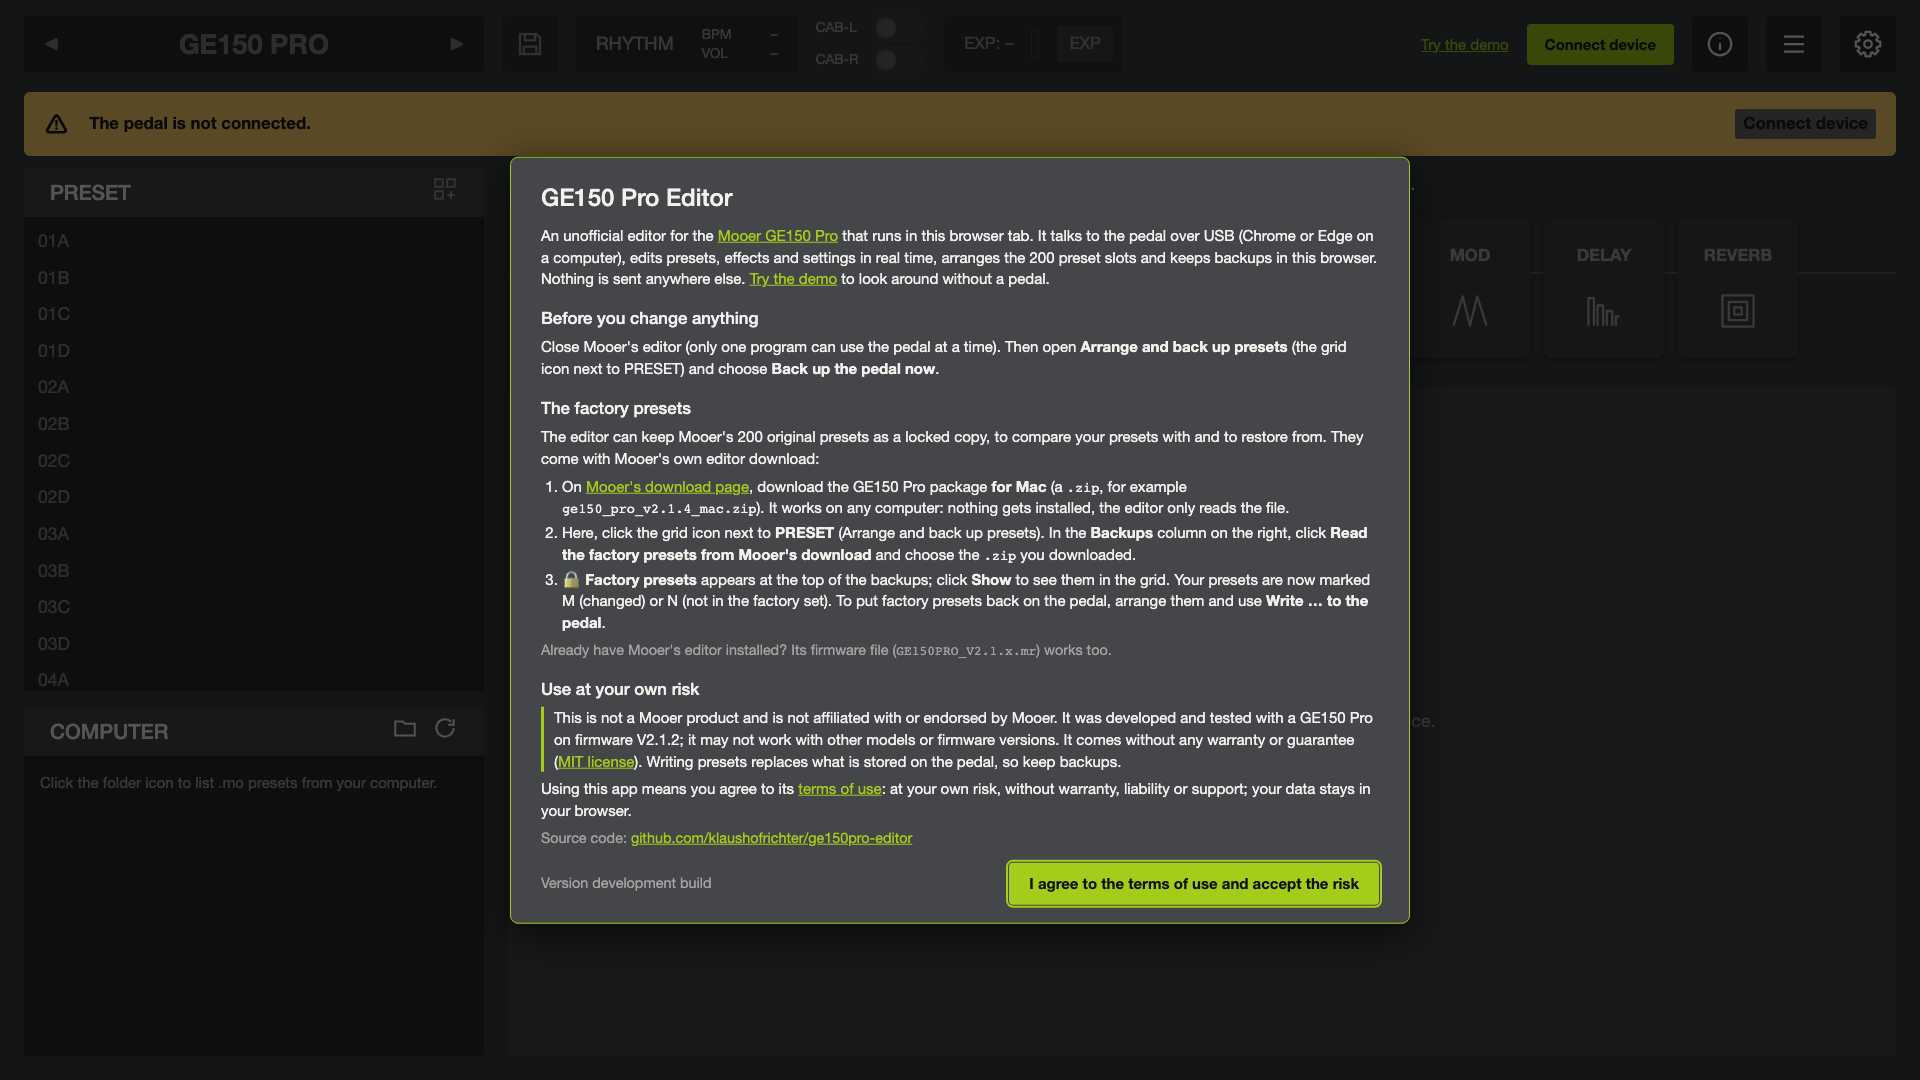
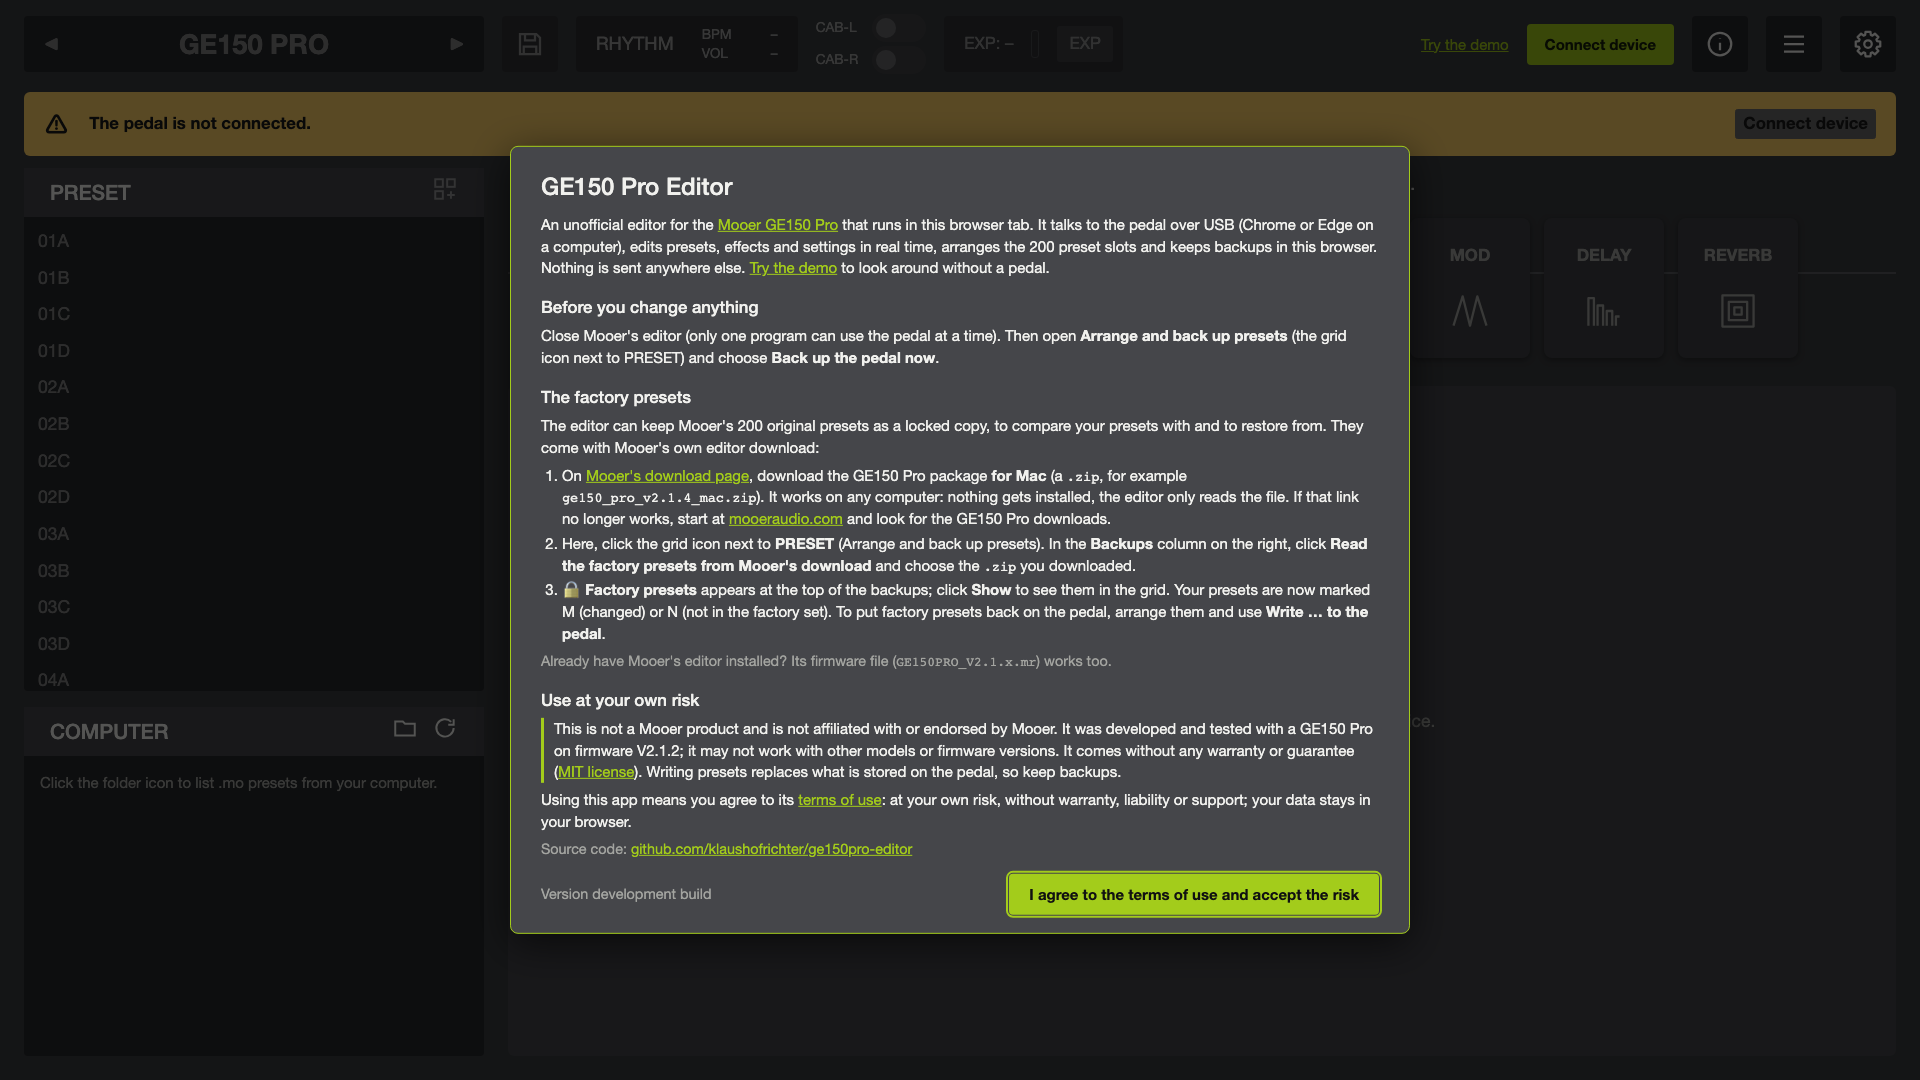
feat(arrange): links to Mooer's download page and home page next to Read the factory presets (#38)
Under the button, a hint says which package to get and links Mooer's GE150 Pro download page, with mooeraudio.com
as the place to start if that link moved. The About panel and the README name the fallback too; the Mooer URLs live
in one module (links.ts).

Claude-Session: https://claude.ai/code/session_01Ew5DouUYP7qcWshz9murCz

Changed region(s): [[0.25, 0.1222, 0.75, 0.8861]]

diff --git a/src/components/ArrangeDialog.svelte b/src/components/ArrangeDialog.svelte
@@ -8,6 +8,7 @@
   } from '../lib/arrange';
   import { askPresetName, dirFiles, downloadText, errorText, folderSupported, pickDirectory } from '../lib/files';
   import { factoryFromFile } from '../lib/firmware';
+  import { MOOER_DOWNLOADS, MOOER_HOME } from '../lib/links';
   import { deleteBackup, listBackups, ORIGINAL_ID, saveBackup, type Backup } from '../lib/backups';
   import { moToPreset, type MoFile } from '../lib/protocol/mo';
   import { presetLabel, type Preset } from '../lib/protocol/preset';
@@ -520,6 +521,11 @@
         <button class="btn" disabled={editor.busy || !folderSupported()} onclick={importMoFolder}>Place a folder of .mo files…</button>
         {#if !original}
           <label class="btn">Read the factory presets from Mooer's download (.zip, .dmg or .mr)<input type="file" accept=".zip,.dmg,.mr" hidden onchange={importFirmware} /></label>
+          <p class="muted small download-hint">
+            Get the GE150 Pro package <strong>for Mac</strong> (works on any computer) from
+            <a href={MOOER_DOWNLOADS} target="_blank" rel="noopener">Mooer's download page</a>. If that link no longer
+            works, start at <a href={MOOER_HOME} target="_blank" rel="noopener">mooeraudio.com</a>.
+          </p>
         {/if}
       </div>
       <ul>
@@ -782,6 +788,9 @@
     cursor: default;
   }
 
+  .download-hint {
+    margin: 0 0 4px;
+  }
   .backups {
     overflow-y: auto;
     border-left: 1px solid var(--line);

diff --git a/src/components/WelcomeDialog.svelte b/src/components/WelcomeDialog.svelte
@@ -34,14 +34,13 @@
 
 <script lang="ts">
   import { onMount } from 'svelte';
+  import { MOOER_DOWNLOADS as DOWNLOADS, MOOER_HOME, MOOER_PRODUCT as PRODUCT } from '../lib/links';
 
   /** `accepted`: opened again from the About button, so it can simply be closed. */
   let { onconfirm, accepted = false }: { onconfirm: () => void; accepted?: boolean } = $props();
   let button: HTMLButtonElement | undefined = $state();
 
   const REPO = 'https://github.com/klaushofrichter/ge150pro-editor';
-  const PRODUCT = 'https://www.mooeraudio.com/products/207.html';
-  const DOWNLOADS = 'https://www.mooeraudio.com/Downloads_xq/6.html';
 
   onMount(() => button?.focus());
 
@@ -78,7 +77,8 @@
     <li>
       On <a href={DOWNLOADS} target="_blank" rel="noopener">Mooer's download page</a>, download the GE150 Pro package
       <strong>for Mac</strong> (a <code>.zip</code>, for example <code>ge150_pro_v2.1.4_mac.zip</code>). It works on any
-      computer: nothing gets installed, the editor only reads the file.
+      computer: nothing gets installed, the editor only reads the file. If that link no longer works, start at
+      <a href={MOOER_HOME} target="_blank" rel="noopener">mooeraudio.com</a> and look for the GE150 Pro downloads.
     </li>
     <li>
       Here, click the grid icon next to <strong>PRESET</strong> (Arrange and back up presets). In the

diff --git a/e2e/editor.spec.ts b/e2e/editor.spec.ts
@@ -84,6 +84,11 @@ test("the factory presets come from Mooer's download: the Arrange dialog takes .
   await page.getByRole('button', { name: 'Arrange and back up presets' }).click();
   const input = page.locator('input[type=file][accept=".zip,.dmg,.mr"]');
   await expect(input).toHaveCount(1);
+  // where to get it: Mooer's download page, and Mooer's home page in case that link moved
+  const hint = page.locator('.download-hint');
+  await expect(hint.getByRole('link', { name: "Mooer's download page" })).toHaveAttribute('href', 'https://www.mooeraudio.com/Downloads_xq/6.html');
+  await expect(hint.getByRole('link', { name: 'mooeraudio.com' })).toHaveAttribute('href', 'https://www.mooeraudio.com');
+  await expect(hint.getByRole('link', { name: 'mooeraudio.com' })).toHaveAttribute('target', '_blank');
   await input.setInputFiles({ name: 'something.zip', mimeType: 'application/zip', buffer: Buffer.from('PK\u0003\u0004 not really a zip') });
   await expect(page.locator('.message')).toContainText('the factory presets were not found in this file');
 });

diff --git a/src/lib/links.ts b/src/lib/links.ts
@@ -1,0 +1,4 @@
+// Mooer's pages the editor points to. The download page may move; the home page is the fallback to start from.
+export const MOOER_HOME = 'https://www.mooeraudio.com';
+export const MOOER_DOWNLOADS = 'https://www.mooeraudio.com/Downloads_xq/6.html';
+export const MOOER_PRODUCT = 'https://www.mooeraudio.com/products/207.html';

diff --git a/README.md b/README.md
@@ -57,7 +57,8 @@ only to describe what the pedal does.
 
 They come with Mooer's own editor download; this repository contains no firmware and nothing taken from it.
 
-1. On [Mooer's download page](https://www.mooeraudio.com/Downloads_xq/6.html), download the GE150 Pro package **for
+1. On [Mooer's download page](https://www.mooeraudio.com/Downloads_xq/6.html) (if that link moved, start at
+   [mooeraudio.com](https://www.mooeraudio.com)), download the GE150 Pro package **for
    Mac** (a `.zip`). It works on any computer: nothing gets installed, the editor only reads the file.
 2. In the editor, open **Arrange and back up presets** (the grid icon next to PRESET) and, under **Backups**, choose
    **Read the factory presets from Mooer's download**, then the `.zip`.
